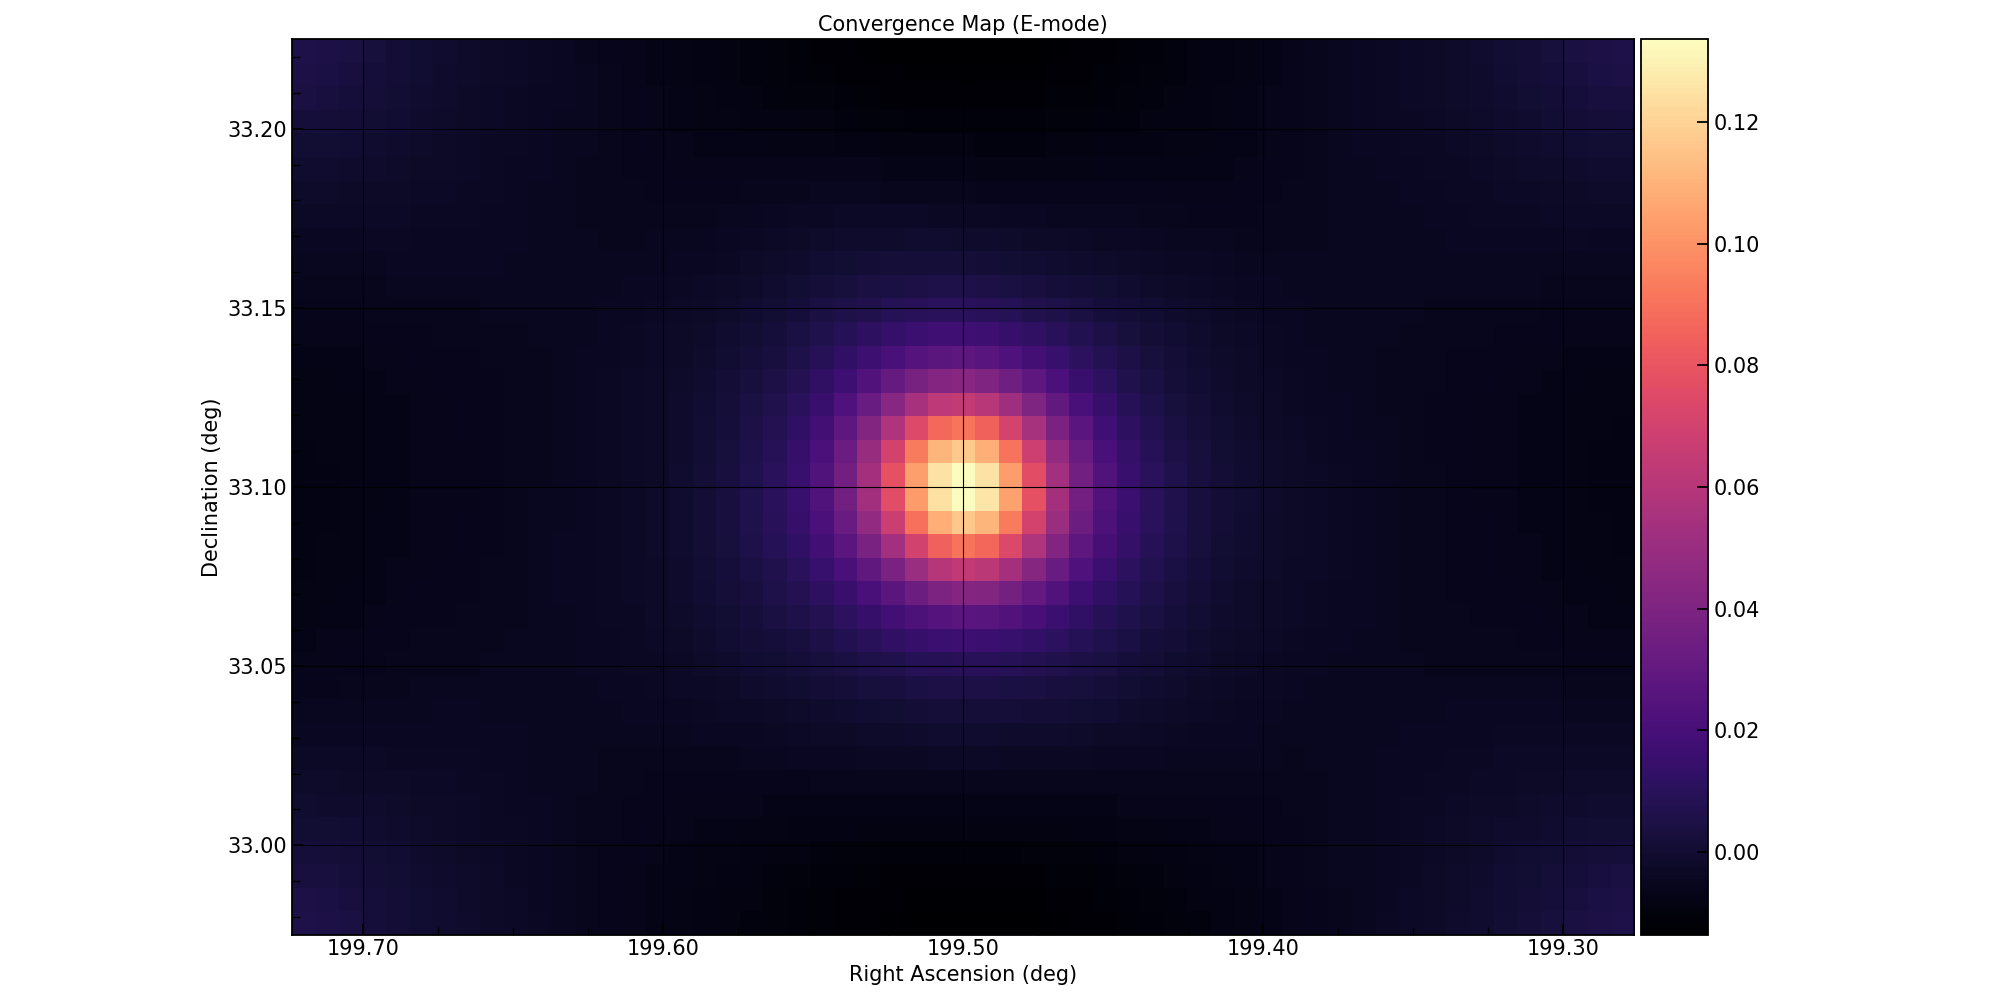
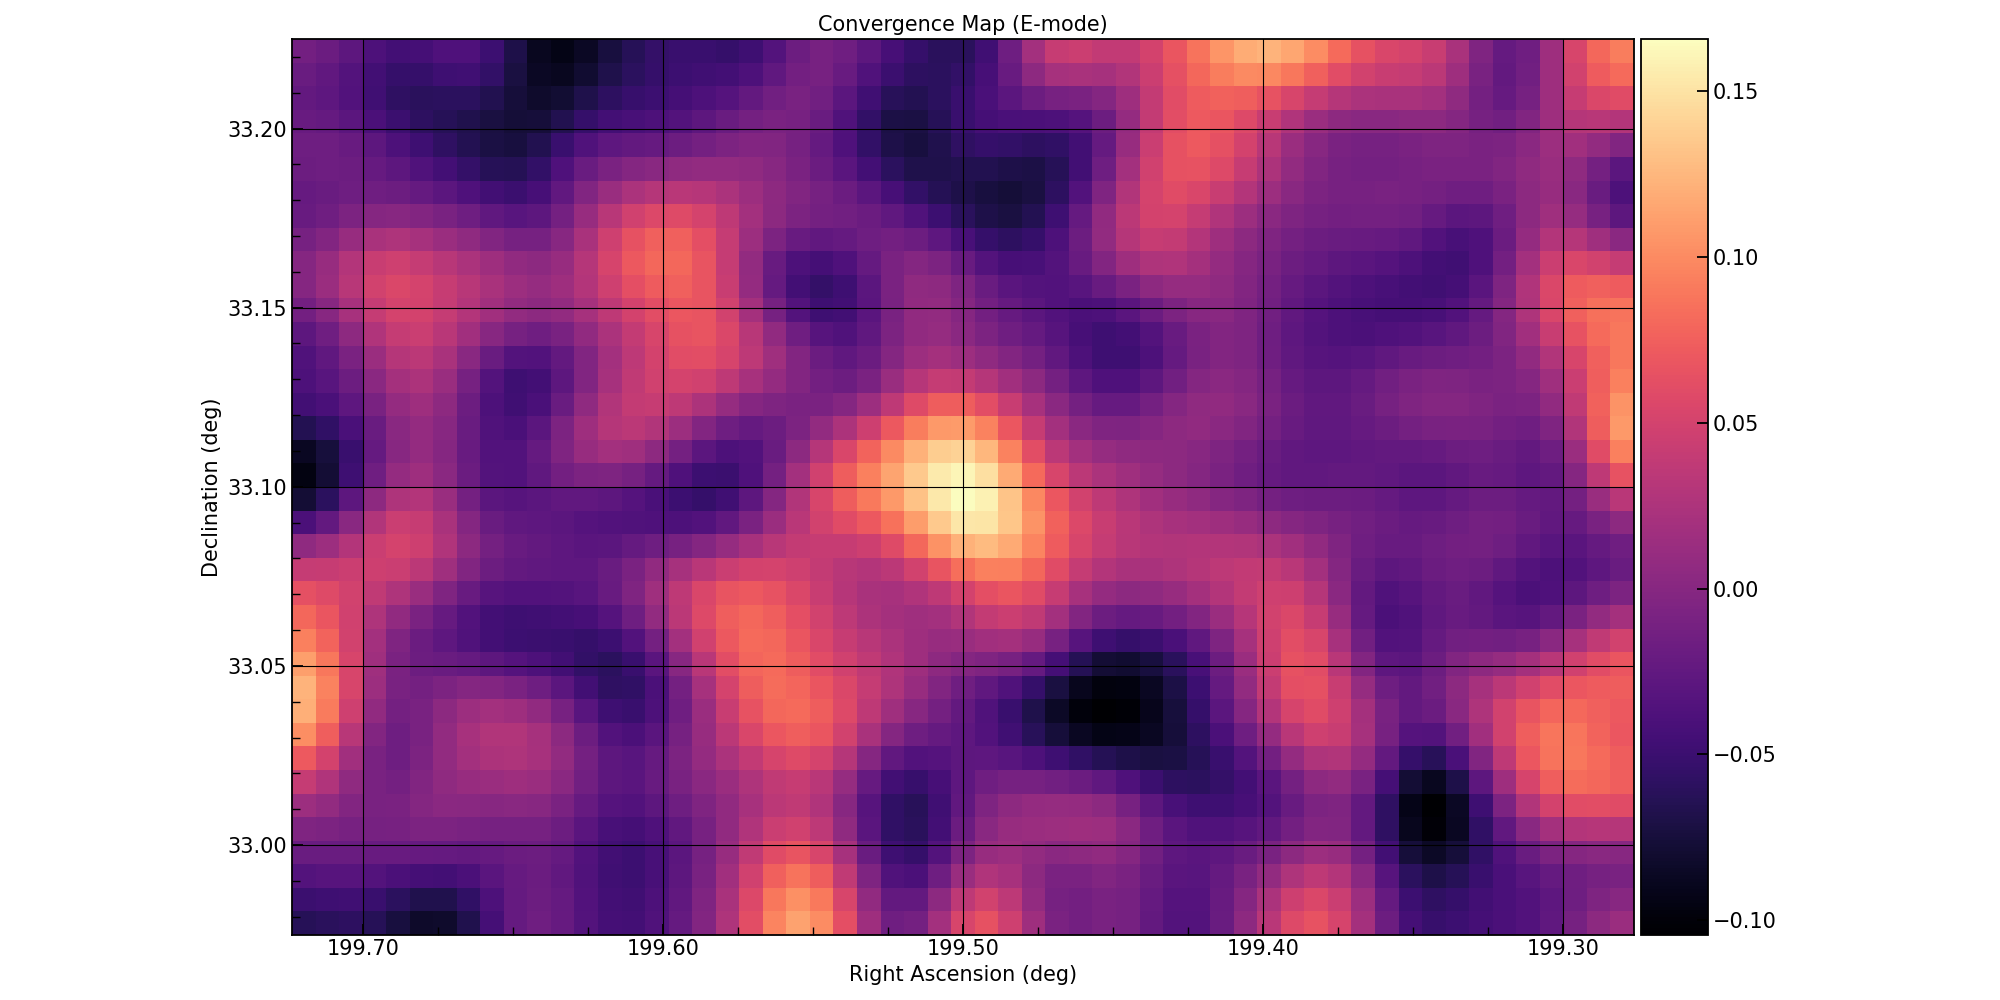
Fix SNR mode

diff --git a/SMPy/SNR/run.py b/SMPy/SNR/run.py
@@ -1,12 +1,10 @@
 import yaml
 import numpy as np
 import pandas as pd
-
 from SMPy import utils
 from SMPy.KaiserSquires import kaiser_squires
 from SMPy.KaiserSquires import plot_kmap
 
-#read in data
 def read_config(file_path):
     with open(file_path, 'r') as file:
         return yaml.safe_load(file)
@@ -14,26 +12,19 @@ def read_config(file_path):
 def ks_inversion_list(grid_list):
     """
     Iterate through a list of (g1map, g2map) pairs and return a list of kappa_e values.
-    Parameters:
-    grid_list : list of tuples
-        A list where each element is a tuple of (g1map, g2map)
-    Returns:
-    kappa_e_list, kappa_b_list : list
-        A list containing the kappa_e_maps for each (g1map, g2map) pair, likewise for kappa_b_maps
     """
     kappa_e_list = []
     kappa_b_list = []
     
     for g1map, g2map in grid_list:
         # Call the ks_inversion function for each pair
-        kappa_e, kappa_b = kaiser_squires.ks_inversion(g1map, -g2map)  
+        kappa_e, kappa_b = kaiser_squires.ks_inversion(g1map, -g2map)
         kappa_e_list.append(kappa_e)
         kappa_b_list.append(kappa_b)
     
     return kappa_e_list, kappa_b_list
 
-
-def create_sn_map(config, convergence_maps, boundaries):
+def create_sn_map(config, convergence_maps, scaled_boundaries, true_boundaries):
     # Load shear data
     shear_df = utils.load_shear_data(
         config['input_path'],
@@ -43,55 +34,55 @@ def create_sn_map(config, convergence_maps, boundaries):
         config['g2_col'],
         config['weight_col']
     )
-
-    # Create shuffled dataframes
+    
+    # Scale RA and DEC - store scaled coordinates in new columns
+    shear_df = utils.scale_ra_dec(shear_df)
+    
+    # Create shuffled dataframes - this should preserve ra_scaled and dec_scaled columns
     shuffled_dfs = utils.generate_multiple_shear_dfs(shear_df, config['num_shuffles'])
-
-    # Create shear grids for shuffled dataframes
-    g1_g2_map_list = utils.shear_grids_for_shuffled_dfs(shuffled_dfs, boundaries, config)
-
+    
+    # Create shear grids for shuffled dataframes using scaled coordinates
+    g1_g2_map_list = []
+    for shuffled_df in shuffled_dfs:
+        # Use ra_scaled and dec_scaled for grid creation
+        g1map, g2map = utils.create_shear_grid(
+            shuffled_df['ra_scaled'],
+            shuffled_df['dec_scaled'],
+            shuffled_df['g1'],
+            shuffled_df['g2'],
+            shuffled_df['weight'],
+            boundaries=scaled_boundaries,
+            resolution=config['resolution']
+        )
+        g1_g2_map_list.append((g1map, g2map))
+    
     # Calculate kappa for shuffled maps
     kappa_e_list, kappa_b_list = ks_inversion_list(g1_g2_map_list)
-
+    
     # Calculate variance maps
     variance_map_e = np.var(np.stack(kappa_e_list, axis=0), axis=0) if kappa_e_list else None
     variance_map_b = np.var(np.stack(kappa_b_list, axis=0), axis=0) if kappa_b_list else None
-
-    # Initialize an empty dictionary for signal-to-noise maps
+    
+    # Initialize dictionary for signal-to-noise maps
     sn_maps = {}
-
+    
     # Calculate signal-to-noise maps if the respective mode exists
     if 'E' in convergence_maps and variance_map_e is not None:
         sn_maps['E'] = convergence_maps['E'] / np.sqrt(variance_map_e)
-
+    
     if 'B' in convergence_maps and variance_map_b is not None:
         sn_maps['B'] = convergence_maps['B'] / np.sqrt(variance_map_b)
-
+    
     # Plot and save the SNR maps
-    modes = config['mode'] if isinstance(config['mode'], list) else [config['mode']]  # Ensure modes is a list
-
+    modes = config['mode'] if isinstance(config['mode'], list) else [config['mode']]
+    
     for mode in modes:
-        if mode in sn_maps:  # Check if the mode exists in sn_maps
+        if mode in sn_maps:
             plot_config = config.copy()
             plot_config['plot_title'] = f'{config["plot_title"]} ({mode}-mode)'
             output_name = f"{config['output_directory']}{config['output_base_name']}_snr_{mode.lower()}_mode.png"
-            plot_kmap.plot_convergence(sn_maps[mode], boundaries, plot_config, output_name)
+            plot_kmap.plot_convergence(sn_maps[mode], scaled_boundaries, true_boundaries, plot_config, output_name)
 
-    
-
-def run(config_path, convergence, boundaries):
+def run(config_path, convergence_maps, scaled_boundaries, true_boundaries):
     config = read_config(config_path)
-    create_sn_map(config, convergence, boundaries)
-
-
-
-
-
-
-
-
-
-
-
-
-                                        
+    create_sn_map(config, convergence_maps, scaled_boundaries, true_boundaries)

diff --git a/SMPy/utils.py b/SMPy/utils.py
@@ -181,19 +181,18 @@ def save_convergence_fits(convergence, boundaries, config, output_name):
 
     print(f"Convergence map saved as FITS file: {output_name}")
 
-
 def _shuffle_ra_dec(shear_df):
     """
-    Shuffle the 'ra' and 'dec' columns of the input DataFrame together.
+    Shuffle the scaled 'ra' and 'dec' columns of the input DataFrame together.
     
     :param shear_df: Input pandas DataFrame.
-    :return: A new pandas DataFrame with shuffled 'ra' and 'dec' columns.
+    :return: A new pandas DataFrame with shuffled 'ra_scaled' and 'dec_scaled' columns.
     """
     # Make a copy to avoid modifying the original
     shuffled_df = shear_df.copy()
 
-    # Combine RA and DEC into pairs
-    ra_dec_pairs = list(zip(shuffled_df['ra'], shuffled_df['dec']))
+    # Combine scaled RA and DEC into pairs
+    ra_dec_pairs = list(zip(shuffled_df['ra_scaled'], shuffled_df['dec_scaled']))
     
     # Shuffle the pairs
     random.shuffle(ra_dec_pairs)
@@ -201,8 +200,9 @@ def _shuffle_ra_dec(shear_df):
     # Unzip the shuffled pairs back into RA and DEC
     shuffled_ra, shuffled_dec = zip(*ra_dec_pairs)
     
-    shuffled_df['ra'] = shuffled_ra
-    shuffled_df['dec'] = shuffled_dec
+    # Update the scaled coordinates
+    shuffled_df['ra_scaled'] = shuffled_ra
+    shuffled_df['dec_scaled'] = shuffled_dec
 
     return shuffled_df
 
@@ -225,17 +225,27 @@ def generate_multiple_shear_dfs(og_shear_df, num_shuffles=100, seed=42):
     
     return shuffled_dfs
 
-def shear_grids_for_shuffled_dfs(list_of_dfs, boundaries, config): 
-    grid_list = []
-    for shear_df in list_of_dfs: 
-        g1map, g2map = create_shear_grid(shear_df['ra'], 
-                                           shear_df['dec'], 
-                                           shear_df['g1'],
-                                           shear_df['g2'], 
-                                           shear_df['weight'], 
-                                           boundaries=boundaries,
-                                           resolution=config['resolution'])
+def g1g2_to_gt_gc(g1, g2, ra, dec, ra_c, dec_c, pix_ra = 100):
+    """
+    Convert reduced shear to tangential and cross shear (Eq. 10, 11 in McCleary et al. 2023).
+    args:
+    - g1, g2: Reduced shear components.
+    - ra, dec: Right ascension and declination of the catalogue,i.e. shear_df['ra'], shear_df['dec'].
+    - ra_c, dec_c: Right ascension and declination of the cluster-centre.
+    
+    returns:
+    - gt, gc: Tangential and cross shear components.
+    - phi: Polar angle in the plane of the sky.
+    """ 
+    ra_max, ra_min, dec_max, dec_min = np.max(ra), np.min(ra), np.max(dec), np.min(dec)
+    aspect_ratio = (ra_max - ra_min) / (dec_max - dec_min)
+    pix_dec = int(pix_ra / aspect_ratio)
+    ra_grid, dec_grid = np.meshgrid(np.linspace(ra_min, ra_max, pix_ra), np.linspace(dec_min, dec_max, pix_dec))
 
-        grid_list.append((g1map, g2map))
+    phi = np.arctan2(dec_grid - dec_c, ra_grid - ra_c)
+    
+    # Calculate the tangential and cross components
+    gt = -g1 * np.cos(2 * phi) - g2 * np.sin(2 * phi)
+    gc = -g1 * np.sin(2 * phi) + g2 * np.cos(2 * phi)
 
-    return grid_list
+    return gt, gc, phi

diff --git a/SMPy/KaiserSquires/run.py b/SMPy/KaiserSquires/run.py
@@ -16,20 +16,28 @@ def create_convergence_map(config):
                                           config['g2_col'], 
                                           config['weight_col'])
 
-    # Calculate field boundaries
-    boundaries = utils.calculate_field_boundaries(shear_df['ra'], 
-                                                  shear_df['dec'])
+    # Calculate true field boundaries before scaling
+    true_boundaries = utils.calculate_field_boundaries(shear_df['ra'], 
+                                                     shear_df['dec'])
+    # Transform RA/Dec (center and scale)
+    shear_df = utils.scale_ra_dec(shear_df)
 
+    # Calculate field boundaries
+    scaled_boundaries = utils.calculate_field_boundaries(shear_df['ra_scaled'], 
+                                                  shear_df['dec_scaled'])
+    
     # Create shear grid
-    g1map, g2map = utils.create_shear_grid(shear_df['ra'], 
-                                           shear_df['dec'], 
+    g1map, g2map = utils.create_shear_grid(shear_df['ra_scaled'], 
+                                           shear_df['dec_scaled'], 
                                            shear_df['g1'],
                                            shear_df['g2'], 
                                            shear_df['weight'], 
-                                           boundaries=boundaries,
+                                           boundaries=scaled_boundaries,
                                            resolution=config['resolution'])
+    
+    
 
-# Calculate the convergence maps
+    # Calculate the convergence maps
     modes = config['mode']
     kappa_e, kappa_b = kaiser_squires.ks_inversion(g1map, -g2map)
 
@@ -44,14 +52,14 @@ def create_convergence_map(config):
         plot_config = config.copy()
         plot_config['plot_title'] = f'{config["plot_title"]} ({mode}-mode)'
         output_name = f"{config['output_directory']}{config['output_base_name']}_kaiser_squires_{mode.lower()}_mode.png"
-        plot_kmap.plot_convergence(convergence, boundaries, plot_config, output_name)
+        plot_kmap.plot_convergence(convergence, scaled_boundaries, true_boundaries, plot_config, output_name)
 
         # Save the convergence map as a FITS file
         if config.get('save_fits', False):
             output_name = f"{config['output_directory']}{config['output_base_name']}_kaiser_squires_{mode.lower()}_mode.fits"
-            utils.save_convergence_fits(convergence, boundaries, config, output_name)
+            utils.save_convergence_fits(convergence, scaled_boundaries, true_boundaries, config, output_name)
 
-    return convergence_maps, boundaries
+    return convergence_maps, scaled_boundaries, true_boundaries
 
 def run(config_path):
     config = read_config(config_path)

diff --git a/SMPy/KaiserSquires/plot_kmap.py b/SMPy/KaiserSquires/plot_kmap.py
@@ -81,16 +81,20 @@ def plot_convergence(convergence, scaled_boundaries, true_boundaries, config, ou
         ra_center = (scaled_boundaries['ra_max'] + scaled_boundaries['ra_min']) / 2
         dec_center = (scaled_boundaries['dec_max'] + scaled_boundaries['dec_min']) / 2
     elif isinstance(cluster_center, dict):
-        ra_center = cluster_center['ra_center']
-        dec_center = cluster_center['dec_center']
+        # Scale the provided coordinates from true to scaled coordinates
+        ra_center = np.interp(cluster_center['ra_center'],
+                            [true_boundaries['ra_min'], true_boundaries['ra_max']],
+                            [scaled_boundaries['ra_min'], scaled_boundaries['ra_max']])
+        
+        dec_center = np.interp(cluster_center['dec_center'],
+                             [true_boundaries['dec_min'], true_boundaries['dec_max']],
+                             [scaled_boundaries['dec_min'], scaled_boundaries['dec_max']])
     elif cluster_center is not None:
         print("Unrecognized cluster_center format, skipping marker.")
         ra_center = dec_center = None
 
     if ra_center is not None:
         ax.plot(ra_center, dec_center, 'wx', markersize=10)
-    
-    ax.scatter(ra_peaks, dec_peaks, s=100, facecolors='none', edgecolors='g', linewidth=1.5)
 
     # Determine nice step sizes based on the range
     ra_range = true_boundaries['ra_max'] - true_boundaries['ra_min']

diff --git a/SMPy/run.py b/SMPy/run.py
@@ -1,5 +1,5 @@
 import yaml
-from SMPy.KaiserSquires import run_withv2 as ks_run
+from SMPy.KaiserSquires import run as ks_run
 from SMPy.SNR import run as snr_run
 
 def read_config(file_path):
@@ -15,14 +15,14 @@ def run(config_path):
     method = general_config.get('method', 'kaiser_squires')
     if method == 'kaiser_squires':
         ks_config = {**general_config, **config['convergence']}
-        convergence_map, boundaries = ks_run.create_convergence_map(ks_config)
+        convergence_map, scaled_boundaries, true_boundaries = ks_run.create_convergence_map(ks_config)
     else:
         raise ValueError(f"Unknown convergence method: {method}")
     
     # Create SNR map if requested
     if general_config.get('create_snr', False):
         snr_config = {**general_config, **config['snr']}
-        snr_run.create_sn_map(snr_config, convergence_map, boundaries)
+        snr_run.create_sn_map(snr_config, convergence_map, scaled_boundaries, true_boundaries)
 
 if __name__ == "__main__":
     import sys
